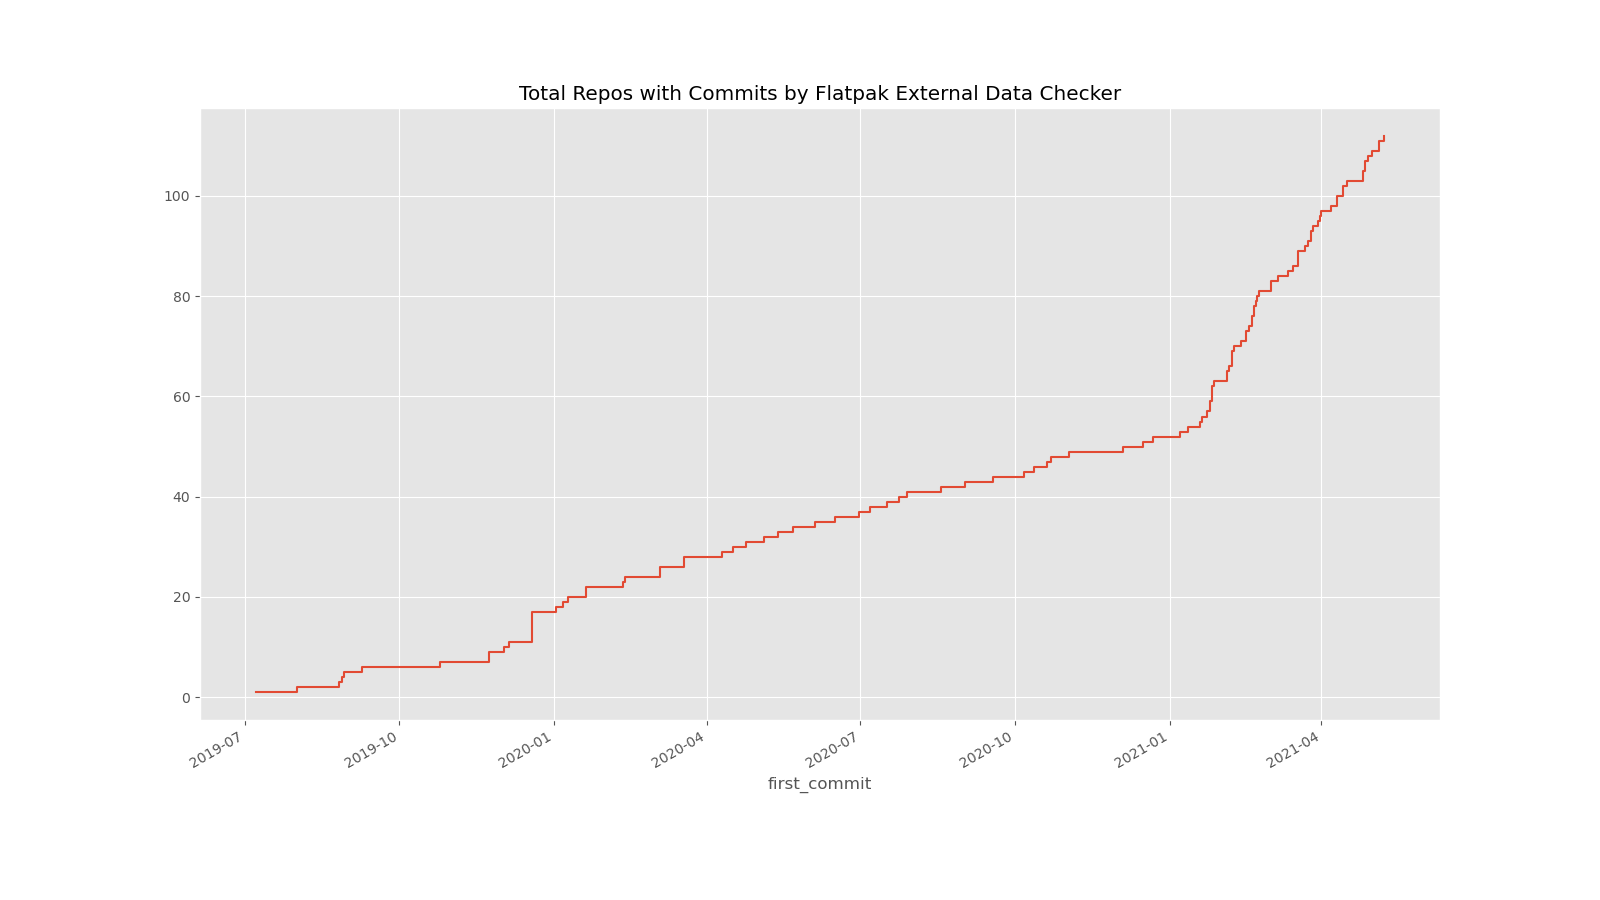
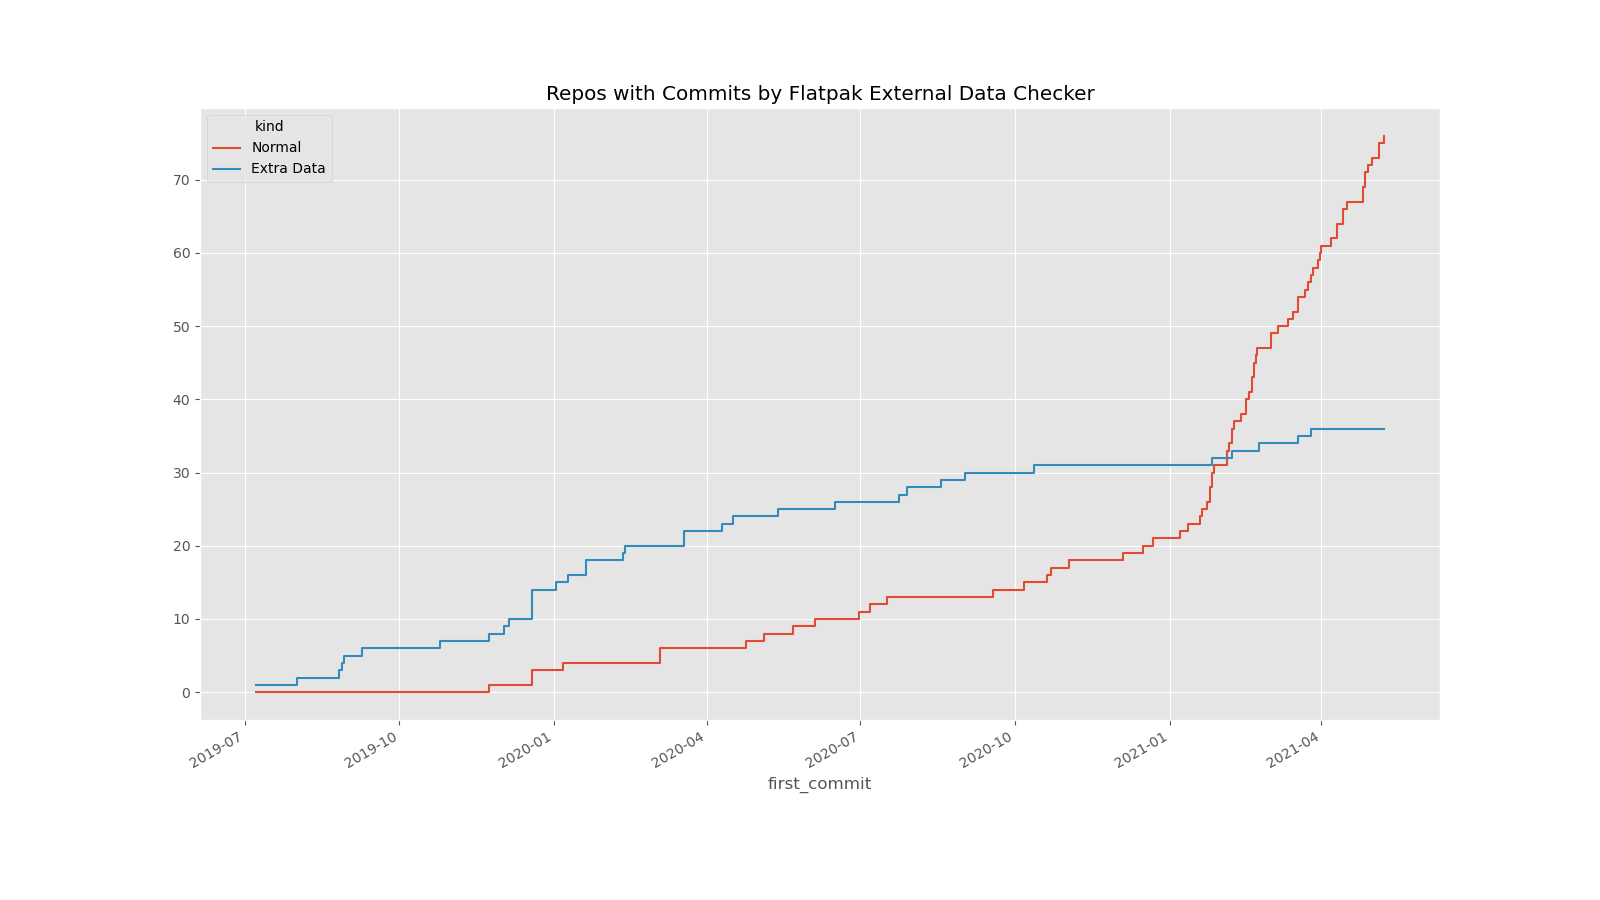
Tweak based on feedback

diff --git a/talk.md b/talk.md
@@ -130,19 +130,17 @@ Making the tool more “official” had several nice results. Before, some Flath
 
 This PR for Zoom seems to have been the first one opened by the Flathub instance of this tool. You might also notice that it's learned to update the appdata.xml file with the version number and release date of the new version of Zoom.
 
-# Impact
-
-Now we've reached the present day, let's take a look at how widely this tool is used on Flathub.
-
-## Number of apps
+## Becoming a general-purpose app updater
 
 ![repos-over-time.png](images/repos-over-time.png)
 
-Over time, the number of apps that are updated by Flatpak External Data Checker is growing steadily. When I prepared this talk, there were 112 apps on Flathub which have been updated by this tool at least once in their history.
+When it was rolled out to Flathub, something interesting happened: Flatpak External Data Checker started to be used not only to keep extra-data Flatpaks up-to-date, but also to keep regular Flatpaks up-to-date as well.
 
-You can probably see two rather clear points where the slope becomes steeper. The first is at the end of 2019, which as I just explained is when Bart deployed the external data checker on Flathub. The second is at the start of this year, 2021.
+When I prepared this talk, there were 112 apps on Flathub which have been updated by this tool at least once in their history. Of those, only 36 are extra-data: that's the blue line in this graph. The remaining 76 are normal Flatpaks that Flathub can build and distribute in full. That's the red line in this graph.
 
-I think this is because a prolific Flathub contributor, who goes by the username "gas in vein", became a comaintainer of Flatpak External Data Checker near the end of 2020 and contributed many nice improvements. In particular, he added several new ways to look for updated versions – such as via release-monitoring.org, and a general-purpose JSON parser – which made it possible to check and automatically update many more apps.
+You can probably see that both lines went up steadily over the course of 2020, after this tool was deployed on Flathub. There's a nice bump right at the end of 2019, which seems to have been the day that we merged support for updating JetBrains IDEs, contributed by “Lctrs”.
+
+You can probably also see that the checker really exploded in popularity for normal Flatpaks since the start of this year, 2021. I think this is mainly because a prolific Flathub contributor, who goes by the username "gas in vein", became a comaintainer of Flatpak External Data Checker near the end of 2020 and contributed many nice improvements. Motivated by trying to keep up with rapid release to the open-source Telegram app, he added several new ways to look for updated versions, such as by checking release-monitoring.org, and using a general-purpose JSON parser. As well as Telegram, these made it possible to check and automatically update many more apps.
 
 ## Enter gasinvein
 
@@ -163,23 +161,19 @@ Anyway, back to what the tool does. Here I've plotted the number of repositories
 
 Here are the top 30 apps and runtimes by number of commits authored by flatpak-external-data-checker. Of course this will be biased towards apps which have been using the tool for longer.
 
-As I described earlier, the original motivation for this tool was to automatically update wrappers for extra-data apps, since these can break without warning if the extra-data URL becomes invalid.
-
-But here I have coloured each app or runtime's bar with whether it is extra-data or not, and the surprising discovery is that around half of these top 30 are not extra-data, but open-source software, or at least software which Flathub can freely redistribute. For instance, the third-most-frequently-updated app on this list is RPCS3, a PlayStation 3 emulated released under the GPL. Flathub tracks the `master` branch of the upstream project. I guess this is a fast-moving project where being at the bleeding edge is worth the potential for the occasional broken build if it means better compatibility with games. High up here, we also see the nightly build of the Rust toolchain, which is open source, as well as the Insiders (a.k.a. nightly) build of Visual Studio Code, which isn't.
+Even so, we can see quite an even split between extra-data and normal apps. For instance, the third-most-frequently-updated app on this list is RPCS3, a PlayStation 3 emulated released under the GPL. Flathub tracks the `master` branch of the upstream project. I guess this is a fast-moving project where being at the bleeding edge is worth the potential for the occasional broken build if it means better compatibility with games. High up here, we also see the nightly build of the Rust toolchain, which is open source, as well as the Insiders (a.k.a. nightly) build of Visual Studio Code, which isn't.
 
 ## Kinds of app
 
 ![proportion.png](images/proportion.png)
 
-This made me wonder: if so many of the most-frequently-updated repositories are in fact open source, how do the totals break down, both on Flathub in general, and for repos monitored by External Data Checker in particular. 
+This made me wonder: if so many of the most-frequently-updated repositories are in fact open source, how do the totals break down, both on Flathub in general, and for repos monitored by External Data Checker in particular? 
 
-Of the 112 repos that external data checker has ever updated, only 36 are extra-data. The remaining 76 are normal, redistributable Flatpaks, which is actually almost as many as the 79 extra-data apps that Flathub has in total. But in relative terms, the external data checker is used for almost half (45%) of those extra-data apps, compared to just 5% of other apps.
+As I've mentioned, of the 112 repos that external data checker has ever updated, just 36 are extra-data. The remaining 76 are normal, redistributable Flatpaks. This is actually almost as many as the 79 extra-data apps that Flathub has in total. But in relative terms, the external data checker is used for almost half (45%) of those extra-data apps, compared to just 5% of other apps.
 
-Personally, I find these numbers quite reassuring. I think it is reasonable to ask whether it is really desirable for Flathub to publish these extra-data wrappers for proprietary apps. Even if you ignore the free software angle, 
+Personally, I find these numbers quite reassuring. I think it is reasonable to ask whether it is really desirable for Flathub to publish these extra-data wrappers for proprietary apps. Even if you ignore the free software angle, I'll quote [from the Flathub website](https://github.com/flathub/flathub/wiki/App-Submission#someone-else-has-put-my-app-on-flathubwhat-do-i-do):
 
 > Flathub is primarily intended as a service that is used by app developers to distribute their apps. […] We would prefer that [applications on Flathub] are controlled by their authors.
-
-Those aren't my words, by the way: I'm quoting [from the Flathub website](https://github.com/flathub/flathub/wiki/App-Submission#someone-else-has-put-my-app-on-flathubwhat-do-i-do), by the way.
 
 So, is this tool making it too easy (if you like) to publish wrappers rather than encouraging app developers to publish their own apps on Flathub for real?
 
@@ -189,7 +183,7 @@ Like Flathub as a whole, I take a pragmatic stance on this. There are some apps 
 
 ![fedc-chromium-pr.png](images/fedc-chromium-pr.png)
 
-And these things are true for open-source software as well, which is 95% of the software on Flathub, and Flatpak External Data Checker can help keep that up to date as well.
+And these things are true for open-source software as well, which is 95% of the software on Flathub, and Flatpak External Data Checker evidently helps many people to keep those apps up-to-date as well.
 
 One important class of software that needs to be kept up-to-date is web browsers. Chromium has been on Flathub for about six months. It has a very rapid major release cadence, releasing every six weeks, and I think this is going down to four weeks soon. And even in between those releases, it's pretty common to see one or more point releases, which almost always fix serious security vulnerabilities.
 
@@ -254,6 +248,7 @@ Generally, a human being is expected to have tested that an app update works bef
 
 So the happy news here is: no extra configuration was needed in the manifest to let the checker do its thing.
 
+<!--
 ## Snapcraft
 
 ```json
@@ -281,6 +276,7 @@ When Spotify was first added to Flathub, Spotify would distribute a `.deb` packa
 Happily, the Snap build can be made to run in a Flatpak, so the Flatpak app was updated to use the Snap as its extra-data source. And also happily, Rebecca Wallander contributed a Snap checker to Flatpak External Data Checker last year, which makes it very simple to keep it updated automatically: just tell it to use the snapcraft checker, for the stable channel of the spotify app. Done.
 
 It's definitely a bit weird that there are apps on Flathub which end up downloading the app itself from Snap, and I think there's an interesting developer advocacy question here. But again, we can be pragmatic here: evidently it works, and keeping it up to date is very simple. As a Spotify user, I didn't even notice this change. I only realised it had happened when I was preparing this talk.
+-->
 
 ## Anitya
 
@@ -303,6 +299,31 @@ The other difference here is that the source is of type "archive", not "extra-da
 
 There are similar checkers for GNOME components, PyPI packages, Rust packages, and so on.
 
+
+## JSON
+
+```json
+{
+    "type": "git",
+    "url": "https://github.com/telegramdesktop/tdesktop.git",
+    "tag": "v2.7.5",
+    "commit": "f1a9884011ca3684afd36469ba0c439b17fc0927",
+    "x-checker-data": {
+        "type": "json",
+        "url": "https://api.github.com/repos/telegramdesktop/tdesktop/releases",
+        "tag-query": "first | .tag_name",
+        "timestamp-query": "first | .published_at",
+        "version-query": "$tag | sub(\"^[vV]\"; \"\")"
+    }
+}
+```
+
+Here's a slightly more complicated example. I mentioned earlier that Telegram was the motivation for adding a general-purpose JSON plugin. There are four inputs to the checker in this example: the URL of a JSON file, and three query expressions which tell the checker how to find the Git tag of the latest release, the timestamp at which it was made, and how to parse the tag to extract the version.
+
+The queries are expressed in the syntax used by the popular [`jq`](https://stedolan.github.io/jq/) JSON-processing tool. Actually, Flatpak External Data Checker uses `jq` to implement this checker.
+
+You might hope that you'd be able to handle Git tags automatically, but unfortunately it's not so simple. Different projects use different naming conventions for their tags, and there is no way to ask a random Git server for the timestamp on a tag without fetching the tag, which can be really expensive for large repositories. The JSON checker is a really powerful tool that can be used for all kinds of sources, not just Git ones.
+
 ## Updating dependencies
 
 ```json
@@ -318,7 +339,9 @@ There are similar checkers for GNOME components, PyPI packages, Rust packages, a
                 }
 ```
 
-All the examples I've given so far are for keeping the app itself up-to-date, but you can use Flatpak External Data Checker to keep dependencies up-to-date, too. Here's an excerpt from the manifest for Remmina, an open-source remote desktop client, which has many dependencies. Most of them have `x-checker-data` annotations to automate updates. Here's an example using the `git` checker to keep the Flatpak updated with new releases of the PCSC smartcard library, which tells Flatpak External Data Checker to check for git tags matching the given regular expression, and extract the version number from it.
+There are some cases when you can handle Git tags more straightforwardly.
+
+All the examples I've given so far are for keeping the app itself up-to-date, but you can use Flatpak External Data Checker to keep dependencies up-to-date, too. Here's an excerpt from the manifest for Remmina, an open-source remote desktop client, which has many dependencies. Most of them have `x-checker-data` annotations to automate updates. Here's an example using the `git` checker to keep the Flatpak updated with new releases of the PCSC smartcard library, which tells Flatpak External Data Checker to check for git tags matching the given regular expression.
 
 ## Automerge
 
@@ -377,6 +400,8 @@ Probably the most obvious one is to start using it on your own app, and give fee
 I hear that even cronjobs get logos these days, so maybe you'd like to make a logo for the project. And actually, over the course of this talk I've realised that saying “Flatpak External Data Checker” over and over again can be a bit clumsy. So… maybe you can think of a snappier name!
 
 # Thanks!
+
+Word cloud?
 
 I'd like to thank all those who have contributed to this tool over the past few years. It's come a long way from a bash script on a private Jenkins instance!
 
